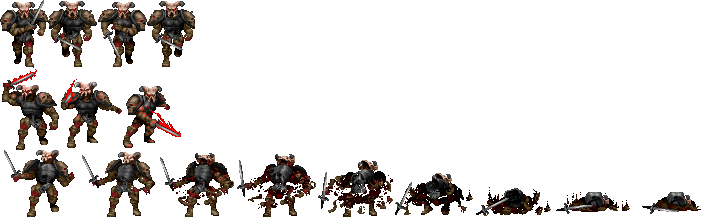
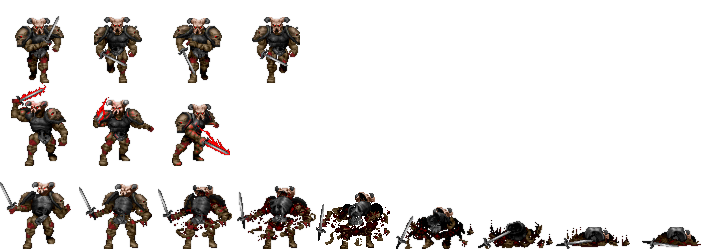
feat: add of cyborg, phantom, crawler, and boss enemies

Changed region(s): [[0.0, 0.0, 0.9902, 1.0], [0.3404, 0.0553, 0.4332, 0.3318]]

diff --git a/include/entities.h b/include/entities.h
@@ -33,6 +33,10 @@ typedef enum entity_id_e {
     E_SWORD_ENEMY,
     E_GUN_ENEMY,
     E_SHEET_ENEMY,
+    E_CYBORG,
+    E_GROWLER,
+    E_PHANTOM,
+    E_BOSS,
     NB_ENTITIES,
 } entity_id_t;
 
@@ -119,11 +123,19 @@ static const entity_info_t ENTITY[] __maybe_unused = {
     [E_WEAPON_FOUR] = {"asset/floor_minigun.png",
         {54, 16}, 0.3, 6},
     [E_SWORD_ENEMY] = {"asset/sword.png",
-        {48, 67}, 0.8, 1, 4, 3, 9, {0, 0, 1, 0.3}},
+        {79, 83}, 1, 1, 4, 3, 9, {0, 0, 1, 0.3}},
     [E_GUN_ENEMY] = {"asset/soldier.png",
         {42, 55}, 0.8, 1, 4, 2, 8, {0, 0, 1, 0.3}},
     [E_SHEET_ENEMY] = {"asset/sheet.png",
         {640, 670}, 0.8, 1, 1, 0, 0, {0, 0, 1, 0.3}},
+    [E_CYBORG] = {"asset/cyborg.png",
+        {67, 59}, 0.8, 1, 4, 2, 5, {0, 0, 1, 0.3}},
+    [E_GROWLER] = {"asset/growler.png",
+        {80, 91}, 0.8, 1, 3, 2, 6, {0, 0, 1, 0.3}},
+    [E_PHANTOM] = {"asset/phantom.png",
+        {65, 60}, 0.8, 1, 3, 3, 6, {0, 0, 1, 0.3}},
+    [E_BOSS] = {"asset/boss.png",
+        {161, 85}, 1, 1, 5, 2, 11, {0, 0, 1, 0.3}},
 };
 
 typedef struct enemy_info_s {
@@ -138,7 +150,11 @@ typedef struct enemy_info_s {
 static const enemy_info_t ENEMY[] __maybe_unused = {
     [E_SWORD_ENEMY] = {25, 50, 3, 150, 100, 200},
     [E_GUN_ENEMY] = {10, 250, 2, 50, 250, 100},
-    [E_SHEET_ENEMY] = {1, 15, 3, 150, 1, 1}
+    [E_SHEET_ENEMY] = {1, 15, 3, 150, 1, 1},
+    [E_CYBORG] = {10, 250, 2, 50, 250, 100},
+    [E_GROWLER] = {10, 250, 2, 50, 250, 100},
+    [E_PHANTOM] = {10, 250, 2, 50, 250, 100},
+    [E_BOSS] = {20, 400, 3, 10, 1000, 1000},
 };
 
 typedef struct closer_tile_s {
